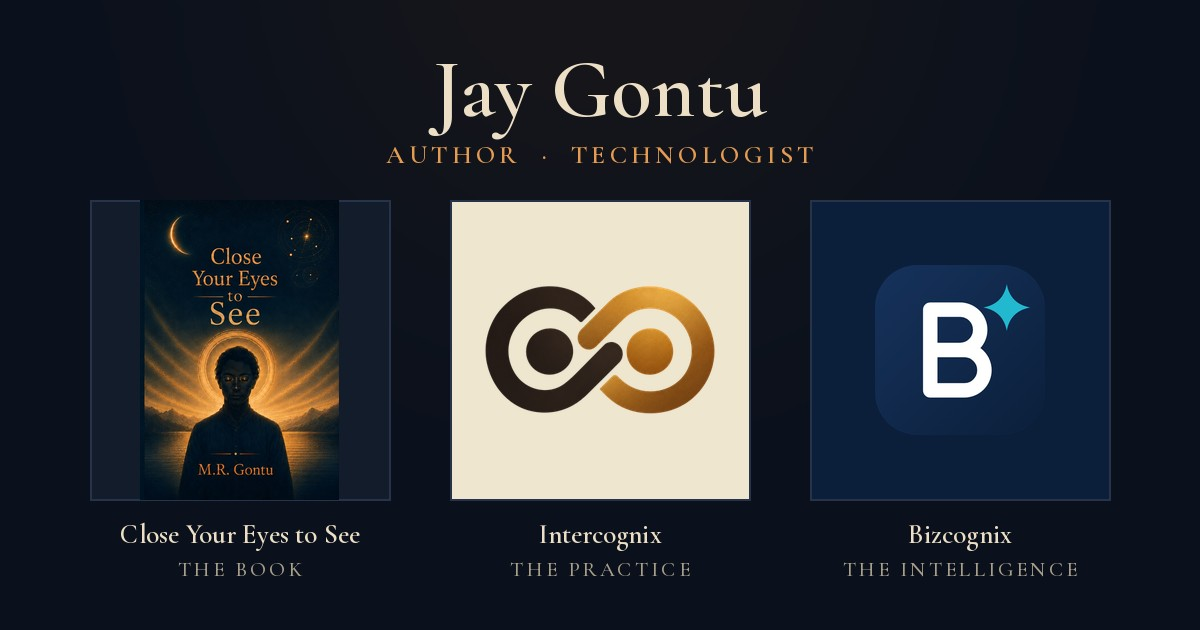
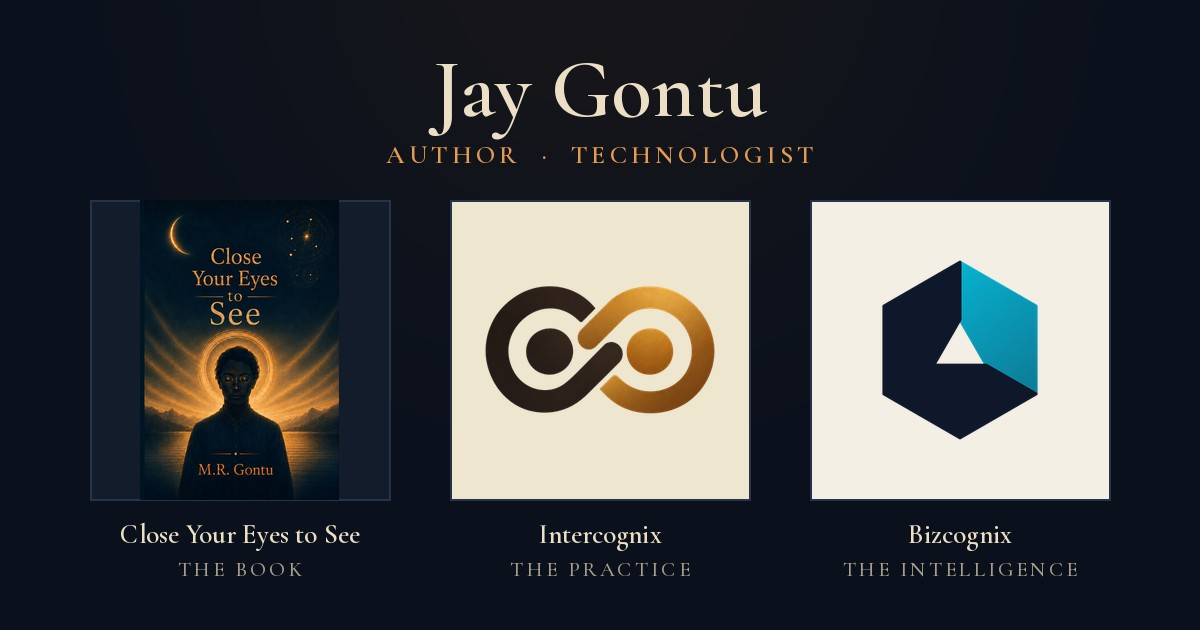
New Bizcognix Pattern Nexus mark on light plates; refresh share image

Changed region(s): [[0.6783, 0.3016, 0.925, 0.8143]]

diff --git a/styles.css b/styles.css
@@ -525,26 +525,29 @@ header.hero.person h1 { max-width: none; }
 }
 
 /* ---------- Bizcognix ----------
-   The official mark is a navy rounded square, already built for a dark
-   field, so it sits directly on this palette — no parchment plate. */
-.bx-plate { background: radial-gradient(circle at 50% 30%, #18233a, var(--stone)); }
+   The Pattern Nexus mark (navy + cyan facets) is the light-mode mark
+   used on bizcognix.com. Its navy facets would vanish on night stone,
+   so — like Intercognix — it always sits on its own light plate. */
+.bx-plate { background: radial-gradient(circle at 50% 30%, #fbf8f2, #ece5d6); }
 a.bx-plate-link { display: block; }
-.bx-plate img { width: 100%; max-width: 132px; height: auto; display: block; margin: 0 auto; }
+.bx-plate img { width: 100%; max-width: 112px; height: auto; display: block; margin: 0 auto; }
 .bx-plate figcaption {
   font-family: var(--inscribe);
   font-size: 0.72rem; letter-spacing: 0.26em; text-transform: uppercase;
-  color: var(--sandstone-dim); padding-top: 20px;
+  color: #5d6472; padding-top: 22px;
 }
 .bx-hero-mark {
   display: inline-block;
+  background: #f6f2ea;
+  padding: 14px 18px;
   margin-bottom: 36px;
-  border-radius: 14px;
+  border-radius: var(--radius);
   box-shadow: 0 0 0 1px rgba(229,156,82,.25), 0 0 40px rgba(229,156,82,.1);
 }
-.bx-hero-mark img { width: 72px; height: auto; display: block; border-radius: 12px; }
+.bx-hero-mark img { width: 64px; height: auto; display: block; }
 
-.work-thumb.bx { background: #0b1f3a; }
-.work-thumb.bx img { width: 64px; height: auto; object-fit: contain; }
+.work-thumb.bx { background: #f4efe5; }
+.work-thumb.bx img { width: 68px; height: auto; object-fit: contain; }
 
 /* Three works share the person-first hero. On a wide screen the cards
    stack the thumb above the copy so each column stays readable; below
@@ -554,7 +557,7 @@ a.bx-plate-link { display: block; }
   .works.three .work { grid-template-columns: 1fr; gap: 22px; align-items: start; justify-items: center; text-align: center; padding: 34px 28px 30px; }
 }
 @media (max-width: 980px) { .works.three { grid-template-columns: 1fr; max-width: 560px; } }
-@media (max-width: 420px) { .works.three .work-thumb.bx img { width: 48px; } }
+@media (max-width: 420px) { .works.three .work-thumb.bx img { width: 54px; } }
 
 /* ---------- Small screens ---------- */
 @media (max-width: 600px) {

diff --git a/index.html b/index.html
@@ -19,7 +19,7 @@
 <link rel="preconnect" href="https://fonts.googleapis.com" />
 <link rel="preconnect" href="https://fonts.gstatic.com" crossorigin />
 <link href="https://fonts.googleapis.com/css2?family=Cormorant+Garamond:ital,wght@0,500;0,600;1,400;1,500&family=Inter:wght@400;500;600&family=Marcellus&display=swap" rel="stylesheet" />
-<link rel="stylesheet" href="styles.css?v=2026-11-19d" />
+<link rel="stylesheet" href="styles.css?v=2026-11-19e" />
 <script type="application/ld+json">
 {
   "@context": "https://schema.org",
@@ -123,7 +123,7 @@
     <p class="label">Bizcognix</p>
     <div class="teaser-grid">
       <a class="bx-plate-link" href="bizcognix.html"><figure class="bx-plate">
-        <img src="bizcognix_mark.svg" width="40" height="40" alt="The Bizcognix mark: a letter B on a navy square, with a small cyan spark" />
+        <img src="bizcognix_mark.svg" width="40" height="40" alt="The Bizcognix mark: a geometric hexagon with a cyan facet and open triangle" />
         <figcaption>bizcognix.com</figcaption>
       </figure></a>
       <div class="teaser-copy">

diff --git a/bizcognix.html b/bizcognix.html
@@ -16,7 +16,7 @@
 <link rel="preconnect" href="https://fonts.googleapis.com" />
 <link rel="preconnect" href="https://fonts.gstatic.com" crossorigin />
 <link href="https://fonts.googleapis.com/css2?family=Cormorant+Garamond:ital,wght@0,500;0,600;1,400;1,500&family=Inter:wght@400;500;600&family=Marcellus&display=swap" rel="stylesheet" />
-<link rel="stylesheet" href="styles.css?v=2026-11-19d" />
+<link rel="stylesheet" href="styles.css?v=2026-11-19e" />
 <script type="application/ld+json">
 {
   "@context": "https://schema.org",
@@ -63,7 +63,7 @@
     <p class="label">The Idea</p>
     <div class="teaser-grid">
       <figure class="bx-plate">
-        <img src="bizcognix_mark.svg" width="40" height="40" alt="The Bizcognix mark: a letter B on a navy square, with a small cyan spark" />
+        <img src="bizcognix_mark.svg" width="40" height="40" alt="The Bizcognix mark: a geometric hexagon with a cyan facet and open triangle" />
         <figcaption>bizcognix.com</figcaption>
       </figure>
       <div class="teaser-copy">

diff --git a/about.html b/about.html
@@ -16,7 +16,7 @@
 <link rel="preconnect" href="https://fonts.googleapis.com" />
 <link rel="preconnect" href="https://fonts.gstatic.com" crossorigin />
 <link href="https://fonts.googleapis.com/css2?family=Cormorant+Garamond:ital,wght@0,500;0,600;1,400;1,500&family=Inter:wght@400;500;600&family=Marcellus&display=swap" rel="stylesheet" />
-<link rel="stylesheet" href="styles.css?v=2026-11-19d" />
+<link rel="stylesheet" href="styles.css?v=2026-11-19e" />
 <script type="application/ld+json">
 {
   "@context": "https://schema.org",

diff --git a/book.html b/book.html
@@ -15,7 +15,7 @@
 <link rel="preconnect" href="https://fonts.googleapis.com" />
 <link rel="preconnect" href="https://fonts.gstatic.com" crossorigin />
 <link href="https://fonts.googleapis.com/css2?family=Cormorant+Garamond:ital,wght@0,500;0,600;1,400;1,500&family=Inter:wght@400;500;600&family=Marcellus&display=swap" rel="stylesheet" />
-<link rel="stylesheet" href="styles.css?v=2026-11-19d" />
+<link rel="stylesheet" href="styles.css?v=2026-11-19e" />
 <script type="application/ld+json">
 {
   "@context": "https://schema.org",

diff --git a/intercognix.html b/intercognix.html
@@ -16,7 +16,7 @@
 <link rel="preconnect" href="https://fonts.googleapis.com" />
 <link rel="preconnect" href="https://fonts.gstatic.com" crossorigin />
 <link href="https://fonts.googleapis.com/css2?family=Cormorant+Garamond:ital,wght@0,500;0,600;1,400;1,500&family=Inter:wght@400;500;600&family=Marcellus&display=swap" rel="stylesheet" />
-<link rel="stylesheet" href="styles.css?v=2026-11-19d" />
+<link rel="stylesheet" href="styles.css?v=2026-11-19e" />
 <script type="application/ld+json">
 {
   "@context": "https://schema.org",

diff --git a/where-to-buy.html b/where-to-buy.html
@@ -15,7 +15,7 @@
 <link rel="preconnect" href="https://fonts.googleapis.com" />
 <link rel="preconnect" href="https://fonts.gstatic.com" crossorigin />
 <link href="https://fonts.googleapis.com/css2?family=Cormorant+Garamond:ital,wght@0,500;0,600;1,400;1,500&family=Inter:wght@400;500;600&family=Marcellus&display=swap" rel="stylesheet" />
-<link rel="stylesheet" href="styles.css?v=2026-11-19d" />
+<link rel="stylesheet" href="styles.css?v=2026-11-19e" />
 </head>
 <body>
 
